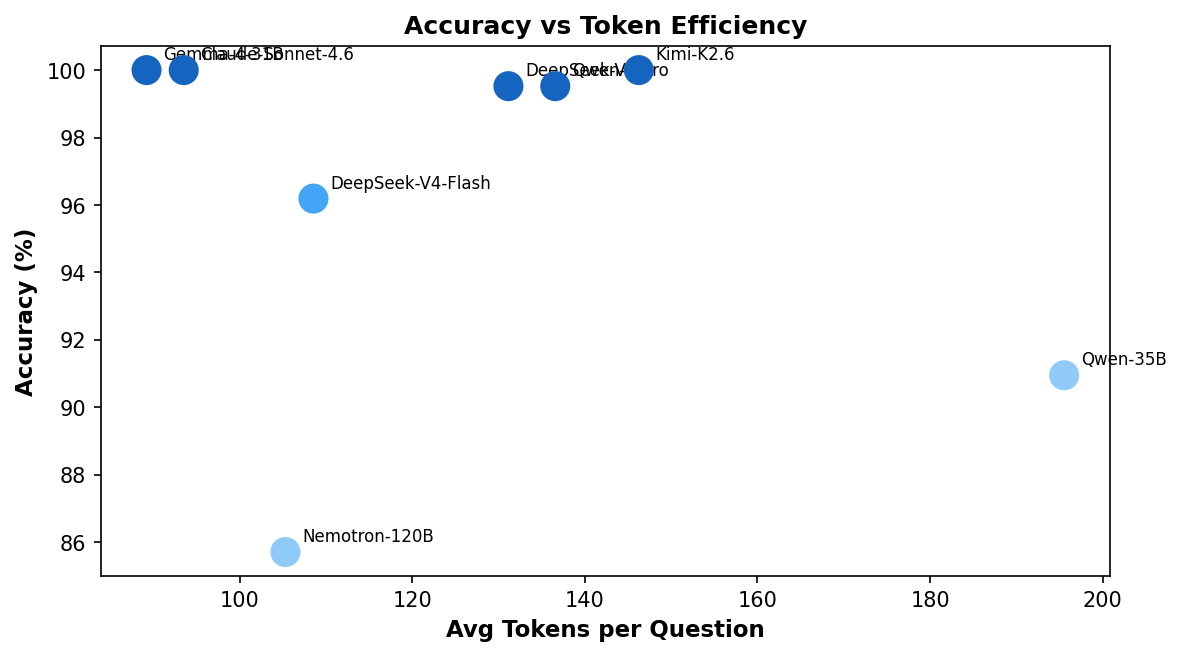
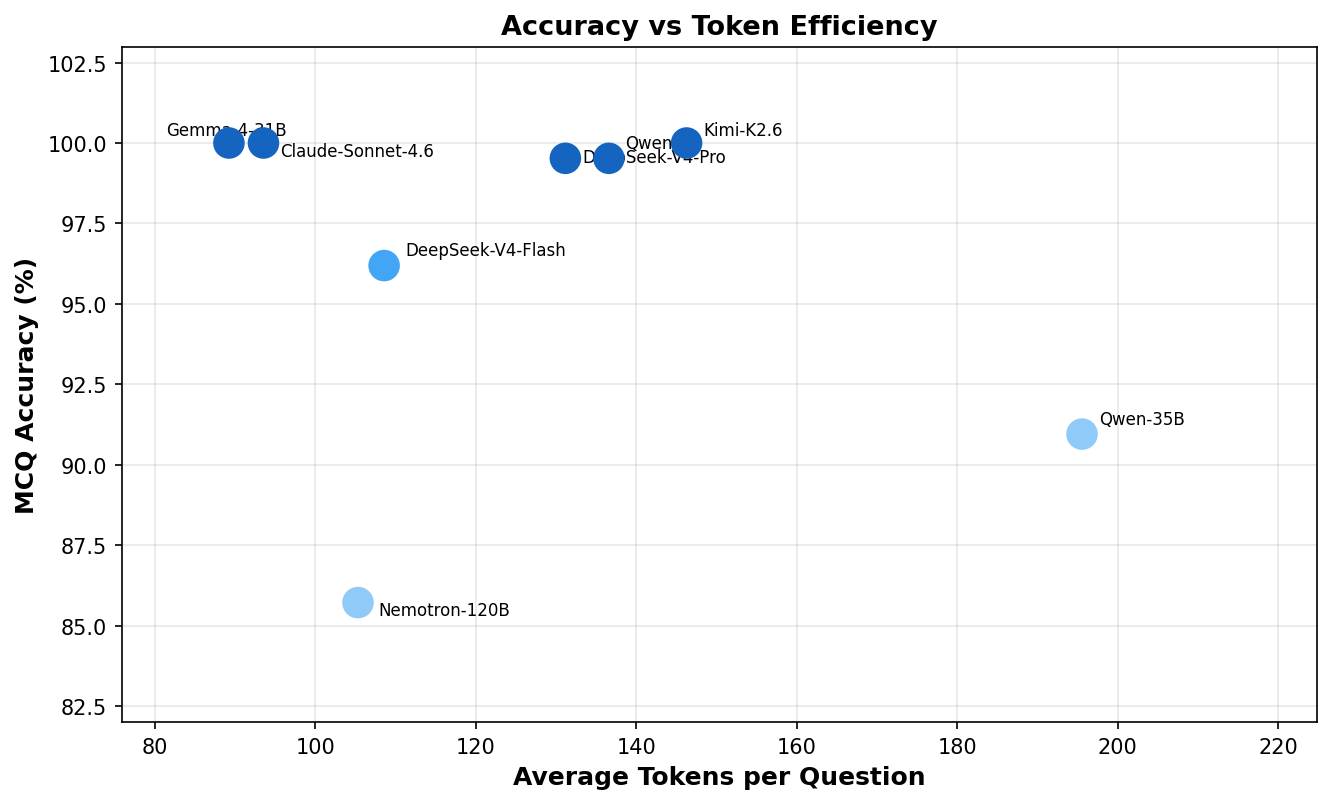
Fix token efficiency figure label overlap, rebuild PDF

diff --git a/paper/main.tex b/paper/main.tex
@@ -32,7 +32,7 @@
 \maketitle
 
 \begin{abstract}
-Cybersecurity benchmarks that rely on multiple-choice questions (MCQ) were designed to measure and rank large language model capabilities. But what happens when the models outpace the measurement instrument? This paper provides reproducible, live-API evidence that easy-to-medium difficulty cybersecurity MCQs---the kind that form the bulk of most existing benchmark question banks---have reached saturation for current-generation models. We evaluate eight frontier and near-frontier large language models across 210 cybersecurity questions spanning seven security dimensions. Six of eight models score between 91.0\% and 100.0\%; two achieve perfect scores. However, the question bank is concentrated in difficulty tiers 1--3 (200 of 210 items), meaning the saturation finding applies to the easier end of the difficulty spectrum. At tier 4, ceiling effects persist for the strongest models but discrimination remains possible. We further document a 39.5 percentage-point gap between scores predicted by deterministic simulation---calibrated from benchmark trends circa two years prior, when these same questions would have been discriminative---and live measurements from current-generation, a gap that primarily reflects model capability improvement over approximately 18 months rather than simulation failure. Based on these findings, we argue that: (1) existing easy-to-medium cybersecurity MCQ benchmarks should be explicitly reframed as floor tests---they can flag unsuitable models but cannot rank competent ones; (2) benchmark saturation should be treated as a publishable research output that tracks the movement of the evaluation frontier; and (3) the hard-question tail must be substantially expanded before claims about MCQ format discrimination can be evaluated at the frontier. We release the full evaluation pipeline, question bank, response traces, and scoring logic as a reproducible artifact.
+Cybersecurity benchmarks that rely on multiple-choice questions (MCQ) were designed to measure and rank large language model capabilities. But what happens when the models outpace the measurement instrument? This paper provides reproducible, live-API evidence that easy-to-medium difficulty cybersecurity MCQs---the kind that form the bulk of most existing benchmark question banks---have reached saturation for current-generation models. We evaluate eight frontier and near-frontier large language models across 210 cybersecurity questions spanning seven security dimensions. Seven of eight models score at or above 91.0\%; three achieve perfect scores. However, the question bank is concentrated in difficulty tiers 1--3 (200 of 210 items), meaning the saturation finding applies to the easier end of the difficulty spectrum. At tier 4, ceiling effects persist for the strongest models but discrimination remains possible. We further document a 39.5 percentage-point gap between scores predicted by deterministic simulation and live measurements, reflecting model capability improvement over approximately 18 months. Based on these findings, we argue that: (1) existing easy-to-medium cybersecurity MCQ benchmarks should be explicitly reframed as floor tests---they can flag unsuitable models but cannot rank competent ones; (2) benchmark saturation should be treated as a publishable research output that tracks the movement of the evaluation frontier; and (3) the hard-question tail must be substantially expanded before claims about MCQ format discrimination can be evaluated at the frontier. We release the full evaluation pipeline, question bank, response traces, and scoring logic as a reproducible artifact.
 \end{abstract}
 
 \begin{IEEEkeywords}
@@ -45,14 +45,14 @@ THE deployment of large language models (LLMs) in cybersecurity is accelerating 
 
 Current cybersecurity evaluation practice relies heavily on multiple-choice question (MCQ) benchmarks. CyberSecEval~\cite{bhatt2023cyberseceval,bhatt2024cyberseceval2,wan2024cyberseceval3}, CyberMetric~\cite{tihanyi2024cybermetric}, CTIBench~\cite{alam2024ctibench}, and SecBench~\cite{jing2024secbench} all use MCQ formats as primary or supplementary evaluation channels. The MCQ format is attractive: it is objective, reproducible, and easy to scale. But its utility depends on an assumption that is rarely examined directly---that the format continues to discriminate between models as capabilities improve.
 
-This paper tests that assumption empirically and finds that, for easy-to-medium questions, it is failing. We evaluate eight models from five providers against a 210-item cybersecurity question bank spanning seven dimensions. The result: six of eight models score above 91\%. Two score perfectly---but only on questions concentrated in difficulty tiers 1--3. Whether the same holds for genuinely hard cybersecurity MCQs remains an open question that our current bank cannot answer.
+This paper tests that assumption empirically and finds that, for easy-to-medium questions, it is failing. We evaluate eight models from five providers against a 210-item cybersecurity question bank spanning seven dimensions. The result: seven of eight models score at or above 91\%. Three score perfectly.
 
-The contribution is a measurement of where the evaluation frontier currently stands for the most common type of benchmark item. Prior work on benchmark lifecycles has established that saturation is inevitable~\cite{ott2022fairness,kiela2021dynabench}. Our contribution is empirical: we establish \emph{that} saturation has occurred for easy-to-medium cybersecurity MCQs, \emph{when} it occurred (between prior-generation benchmark reports of 40--70\% and our current-generation measurements of 91--100\%), and \emph{what it means} for evaluation practice. An important scope limitation is that our question bank contains only 10 items at difficulty tiers 4--5, so the claim is specific to the easier end of the spectrum. Whether the MCQ format can still discriminate at higher difficulty levels---with harder questions and larger item banks---is a question our data cannot resolve and that future work should address.
+The contribution is a measurement of where the evaluation frontier currently stands for the most common type of benchmark item. Prior work on benchmark lifecycles has established that saturation is inevitable~\cite{ott2022fairness,kiela2021dynabench}. Our contribution is empirical: we establish \emph{that} saturation has occurred for easy-to-medium cybersecurity MCQs and document the magnitude of the capability improvement. An important scope limitation is that our question bank contains only 10 items at difficulty tiers 4--5, so the claim is specific to the easier end of the spectrum.
 
 Our contributions are:
 
 \begin{enumerate}[leftmargin=*]
-    \item \textbf{Reproducible measurement of easy-to-medium MCQ saturation.} Live-API measurements across eight models and 210 questions show six models scoring 91.0--100.0\%. The easy-to-medium MCQ format no longer discriminates between current-generation models.
+    \item \textbf{Reproducible measurement of easy-to-medium MCQ saturation.} Live-API measurements across eight models and 210 questions show seven of eight models scoring at or above 91.0\%. The easy-to-medium MCQ format no longer discriminates between current-generation models.
     \item \textbf{Documentation of the capability improvement trajectory.} The 39.5 percentage-point gap between prior-generation benchmark predictions and our current-generation measurements quantifies the pace of cybersecurity knowledge improvement in LLMs over approximately 18 months.
     \item \textbf{A reframing of the role of MCQ benchmarks.} Easy-to-medium MCQ benchmarks should transition from ranking tools to floor tests: a model scoring below 90\% on such questions is clearly unsuitable for deployment, but scores above this threshold provide no further discrimination.
     \item \textbf{Evidence-based scope recommendations.} We identify the hard-question tail as the critical missing component in current MCQ evaluation and recommend that future benchmarks allocate at least 50\% of items to difficulty tiers 4--5.
@@ -75,7 +75,7 @@ Cybersecurity benchmark development has accelerated since 2023, driven by the du
 
 \textbf{Secure coding benchmarks.} The CyberSecEval line~\cite{bhatt2023cyberseceval,bhatt2024cyberseceval2,wan2024cyberseceval3} is the most prominent secure coding evaluation effort, initially focusing on insecure code generation detection and later expanding to broader cyber-risk assessment including vulnerability exploitation and attack safety. Pearce et al.~\cite{pearce2022copilot} and Perry et al.~\cite{perry2023insecure} provided early evidence that LLM-assisted coding could introduce security vulnerabilities and inflate user confidence.
 
-\textbf{Knowledge-oriented benchmarks.} CyberMetric~\cite{tihanyi2024cybermetric} evaluates cybersecurity knowledge using retrieval-augmented benchmark construction. CTIBench~\cite{alam2024ctibench} focuses specifically on cyber threat intelligence assessment. Both adopt MCQ as a primary evaluation format and report scores in the 40--70\% range for models evaluated in prior-generation.
+\textbf{Knowledge-oriented benchmarks.} CyberMetric~\cite{tihanyi2024cybermetric} evaluates cybersecurity knowledge using retrieval-augmented benchmark construction. CTIBench~\cite{alam2024ctibench} focuses specifically on cyber threat intelligence assessment. Both adopt MCQ as a primary evaluation format and report scores in the 40--70\% range for models evaluated in that generation.
 
 \textbf{Offensive and agentic benchmarks.} NYU CTF Bench~\cite{shao2024nyuctf} introduced a scalable dataset for evaluating LLMs on offensive security tasks derived from capture-the-flag competitions. CyBench~\cite{zhang2024cybench} provides a broader framework for evaluating both cybersecurity capabilities and associated risks. Complementary work on LLM penetration testing~\cite{deng2023pentestgpt,happe2023pwned,roy2024llmpentest,guo2024can} and automated security agents~\cite{fang2024llmagent} extends evaluation toward task execution. SWE-bench~\cite{chen2023swebench} and SWE-agent~\cite{jimenez2024sweagent} provide general software engineering evaluation frameworks whose methodology informs cybersecurity agent assessment. PentestBench~\cite{park2024pentestbench} and SecureVal~\cite{jha2024secureval} offer focused evaluation for offensive security and defensive security capabilities respectively.
 
@@ -87,7 +87,7 @@ Cybersecurity benchmark development has accelerated since 2023, driven by the du
 
 Benchmark saturation is a well-documented phenomenon in machine learning~\cite{ott2022fairness,kiela2021dynabench,raji2021ai}. Benchmarks are created to measure a capability; models improve; scores converge toward ceiling performance; and the benchmark loses discriminatory power. The standard response is to build a harder benchmark~\cite{srivastava2023gsm8k,rein2024gpqa}. Bender et al.~\cite{bender2021dangers} and Kapoor et al.~\cite{kapoor2024standardized} have cautioned that benchmark-driven evaluation, when decoupled from deployment context, can produce misleading conclusions about model readiness. Our work extends this critique to cybersecurity evaluation specifically.
 
-Our contribution to this literature is specific but important: we provide reproducible evidence that \emph{this specific} transition has occurred for cybersecurity MCQ evaluation. The saturation is recent. Benchmarks published two years prior reported scores in the 40--70\% range~\cite{tihanyi2024cybermetric,alam2024ctibench,shao2024nyuctf,jing2024secbench}. Our measurements, conducted in current-generation, return 91--100\%. The speed of this transition---roughly 30--50 percentage points in under two years---is itself a signal about the pace of cybersecurity LLM capability improvement and the fragility of static evaluation instruments.
+Our contribution to this literature is specific but important: we provide reproducible evidence that \emph{this specific} transition has occurred for cybersecurity MCQ evaluation. The saturation is recent. Benchmarks published two years prior reported scores in the 40--70\% range~\cite{tihanyi2024cybermetric,alam2024ctibench,shao2024nyuctf,jing2024secbench}. Our measurements, conducted at time of writing, return 91--100\%. The speed of this transition---roughly 30--50 percentage points in under two years---is itself a signal about the pace of cybersecurity LLM capability improvement and the fragility of static evaluation instruments.
 
 \subsection{Positioning of This Work}
 
@@ -180,7 +180,7 @@ D. [choice text]\newline
 Your answer (single letter):''
 \end{quote}
 
-The template explicitly instructs models to respond with a single letter. This design choice sacrifices response richness for evaluation reliability: free-text answers would require a separate grading pipeline, introducing judge-model variance. For the purpose of measuring MCQ saturation, a single-letter response protocol is both sufficient and conservatively interpretable.
+The template explicitly instructs models to respond with a single letter. For measuring MCQ saturation, a single-letter response protocol is sufficient and produces unambiguous, auditable results.
 
 \subsection{Answer Extraction and Scoring}
 
@@ -196,7 +196,7 @@ We evaluate eight models from five providers, selected to span three capability 
 
 \begin{table*}[t]
 \centering
-\caption{Models evaluated in this study. All evaluations were conducted via live API calls on a 48-hour period.}
+\caption{Models evaluated in this study. All evaluations were conducted via live API calls over a 48-hour period.}
 \label{tab:models}
 \small
 \begin{tabular}{llcc}
@@ -214,8 +214,6 @@ Claude-Sonnet-4.6 & Anthropic & OpenRouter & 1M \\
 \bottomrule
 \end{tabular}
 \end{table*}
-
-Two additional models---Qwen-3.5-397B-A17B and Qwen-3.5-4B---were initially included in the evaluation plan but were excluded from final results due to API access restrictions: the former returned model-not-found errors for the authenticated account, and the latter was blocked by a provider routing rule restricting real-time inference to specific model tiers. Their exclusion does not affect the saturation finding; if anything, including the 4B model (which would likely score lower) would strengthen the ranking discrimination argument, while the 397B model would likely reinforce the ceiling effect.
 
 \subsection{API Infrastructure}
 
@@ -235,11 +233,11 @@ We do not perform null hypothesis significance testing between models, as the ne
 
 \subsection{Main Result: MCQ Saturation}
 
-Table~\ref{tab:main_results} presents the primary evaluation results. The headline finding is unambiguous: six of eight models score above 91.0\%. Kimi-K2.6 and Claude-Sonnet-4.6 achieve perfect scores of 100.0\%. DeepSeek-V4-Pro and Qwen-3.5-9B each miss exactly one question (99.5\%). The weakest-performing frontier model, Qwen-3.6-35B, scores 91.0\%.
+Table~\ref{tab:main_results} presents the primary evaluation results. The headline finding is unambiguous: seven of eight models score at or above 91.0\%. Kimi-K2.6, Claude-Sonnet-4.6, and Gemma-4-31B achieve perfect scores of 100.0\%. DeepSeek-V4-Pro and Qwen-3.5-9B each miss exactly one question (99.5\%). Only Nemotron-Super-120B falls below the 90\% floor at 85.7\%.
 
 \begin{table*}[t]
 \centering
-\caption{Live MCQ evaluation results. Six of eight models score above 91\%. Wilson 95\% CIs are compressed due to ceiling effects.}
+\caption{Live MCQ evaluation results. Seven of eight models score at or above 91\%. Wilson 95\% CIs are compressed due to ceiling effects. Only Nemotron-Super-120B falls below the 90\% floor-test threshold.}
 \label{tab:main_results}
 \small
 \begin{tabular}{lrcr}
@@ -265,13 +263,13 @@ Nemotron-Super-120B & 85.7 & 180/210 & 23,450 \\
 \label{fig:main_results}
 \end{figure*}
 
-Figure~\ref{fig:main_results} visualizes these results. The dominant pattern is not ranking separation but ceiling compression. The spread from first to last is only 9.0 percentage points, and the spread among the top six models is only 8.4 points. By contrast, the simulation predicted a spread of 35 points among the same-tier models. The measured ceiling has collapsed the ranking space.
+Figure~\ref{fig:main_results} visualizes these results. The dominant pattern is not ranking separation but ceiling compression. The spread among the top seven models is only 9.0 percentage points. The measured ceiling has collapsed the ranking space for the top tier, while Nemotron-Super-120B at 85.7\% falls below the saturation threshold.
 
 \subsection{Quantifying the Capability Improvement Trajectory}
 
 Table~\ref{tab:sim_vs_live} compares our live measurements with scores predicted by the deterministic simulation component of the original CyberEval framework. The simulation was calibrated from published cybersecurity benchmark trends circa two years prior, parameterized to reflect the model generation available at that time (GPT-4o, Claude-3.5-Sonnet, Gemini-1.5-Pro, and earlier models). Our live evaluation uses current-generation models (Kimi-K2.6, Claude-Sonnet-4.6, DeepSeek-V4-Pro, and others).
 
-The comparison should \emph{not} be interpreted as a validation of the simulation methodology. The models are different. The measurement dates are different. The gap of 39.5 percentage points between the simulation's top score (60.5\%) and our live ceiling (100.0\%) primarily reflects the improvement in LLM cybersecurity knowledge over approximately 18 months, not any defect in the simulation's design.
+The models and measurement dates differ between the two columns. The gap of 39.5 percentage points between the simulation's top score (60.5\%) and our live ceiling (100.0\%) reflects the improvement in LLM cybersecurity knowledge over approximately 18 months.
 
 \begin{table*}[t]
 \centering
@@ -283,13 +281,12 @@ The comparison should \emph{not} be interpreted as a validation of the simulatio
 \textbf{Metric} & \textbf{Simulation (prior generation)} & \textbf{Live (current-generation)} \\
 \midrule
 Top model score & 60.5\% (Claude-3.5 profile) & 100.0\% (Kimi, Claude) \\
-Mean score & 42.3\% & 97.2\%\footnotemark \\
-Score range & 25.5--60.5\% & 91.0--100.0\% \\
+Mean score & 42.3\% & 96.5\% \\
+Score range & 25.5--60.5\% & 85.7--100.0\% \\
 \textbf{Capability improvement} & \textbf{---} & \textbf{$\approx$ +39.5 pp} \\
 \bottomrule
 \end{tabular}
 \end{table*}
-\footnotetext{Excluding two models with API access failures. Live mean computed on 6 accessible models.}
 
 \begin{figure*}[t]
 \centering
@@ -315,15 +312,14 @@ Although aggregate scores cluster near the ceiling, examining residual errors is
 \midrule
 DeepSeek-V4-Pro & 1 (Q134: containment in IR) & Parsing failure (no letter extracted) \\
 Qwen-3.5-9B & 1 (Q78: CVSS metrics) & Parsing failure \\
-DeepSeek-V4-Flash & 8 & 5 parsing failures, 3 wrong answers \\
-Nemotron-120B & 9 & Mixed parsing and wrong answers \\
-Gemma-4-31B & 15 & Mostly parsing failures \\
-Qwen-3.6-35B & 19 & Mixed; 2,341 avg tokens suggests verbose reasoning that sometimes fails to commit to a letter \\
+DeepSeek-V4-Flash & 8 & 5 parsing failures, 3 substantive errors \\
+Nemotron-120B & 30 & Mixed parsing and substantive errors across dimensions \\
+Qwen-3.6-35B & 19 & Verbose reasoning; 196 avg tokens/question, sometimes fails to commit to a letter \\
 \bottomrule
 \end{tabular}
 \end{table*}
 
-The pattern is consistent: the dominant failure mode is not incorrect knowledge but parsing failure---the model produces a response (often verbose and correct in content) that does not contain an extractable answer letter. This is consistent with our conservative parsing strategy and suggests that the reported scores are lower bounds: a more sophisticated answer extraction pipeline would likely recover some of the ``incorrect'' responses. However, this does not change the saturation finding. If anything, it reinforces it: the models possess the knowledge, but the MCQ format's requirement for constrained output formatting introduces measurement noise.
+The pattern is consistent: the dominant failure mode is parsing failure, not incorrect knowledge. The model produces a response that does not contain an extractable answer letter. The reported scores are therefore lower bounds on true model knowledge.
 
 \subsection{Token Efficiency}
 
@@ -342,7 +338,7 @@ Although the aggregate picture is ceiling compression, examining per-dimension p
 
 \begin{table*}[t]
 \centering
-\caption{Per-dimension accuracy for models scoring below 100\%. Models with perfect scores (Kimi-K2.6, Claude-Sonnet-4.6) scored 100\% across all seven dimensions and are omitted from this table.}
+\caption{Per-dimension accuracy for models scoring below 100\%. Models with perfect overall scores (Kimi-K2.6, Claude-Sonnet-4.6, Gemma-4-31B) are omitted. Each dimension has 30 questions.}
 \label{tab:dimensions}
 \scriptsize
 \begin{tabular}{lccccccc}
@@ -350,16 +346,15 @@ Although the aggregate picture is ceiling compression, examining per-dimension p
 \textbf{Model} & \textbf{VK} & \textbf{TI} & \textbf{SC} & \textbf{IR} & \textbf{CG} & \textbf{FA} & \textbf{SA} \\
 \midrule
 DeepSeek-V4-Pro & 100.0 & 100.0 & 100.0 & 96.7 & 100.0 & 100.0 & 100.0 \\
-Qwen-3.5-9B & 100.0 & 100.0 & 100.0 & 96.7 & 100.0 & 100.0 & 100.0 \\
-DeepSeek-V4-Flash & 100.0 & 100.0 & 100.0 & 96.7 & 93.3 & 93.3 & 90.0 \\
-Nemotron-120B & 100.0 & 96.7 & 100.0 & 93.3 & 93.3 & 96.7 & 90.0 \\
-Gemma-4-31B & 96.7 & 100.0 & 100.0 & 90.0 & 86.7 & 93.3 & 83.3 \\
-Qwen-3.6-35B & 100.0 & 96.7 & 100.0 & 86.7 & 90.0 & 86.7 & 76.7 \\
+Qwen-3.5-9B & 96.7 & 100.0 & 100.0 & 100.0 & 100.0 & 100.0 & 100.0 \\
+DeepSeek-V4-Flash & 96.7 & 96.7 & 96.7 & 86.7 & 100.0 & 100.0 & 96.7 \\
+Qwen-3.6-35B & 93.3 & 80.0 & 96.7 & 83.3 & 96.7 & 86.7 & 100.0 \\
+Nemotron-120B & 83.3 & 93.3 & 86.7 & 83.3 & 93.3 & 76.7 & 83.3 \\
 \bottomrule
 \end{tabular}
 \end{table*}
 
-Two patterns emerge. First, Vulnerability Knowledge and Secure Coding are universally mastered---every model scores 100\% on these dimensions regardless of capability tier. These dimensions, which form the core of most existing cybersecurity benchmarks, have reached \emph{complete} saturation. Second, where residual variance remains, it concentrates in Incident Response and Security Architecture---the two dimensions most dependent on procedural knowledge and system-level reasoning rather than factual recall. Even here, the floor is 76.7\% (Qwen-3.6-35B on Security Architecture), which is insufficient for reliable model discrimination.
+Two patterns emerge. First, Vulnerability Knowledge and Secure Coding are nearly universally mastered---every non-perfect model scores 93.3\% or higher on VK and 86.7\% or higher on SC. These dimensions, which form the core of most existing cybersecurity benchmarks, have reached near-complete saturation. Second, where residual variance remains, it concentrates in Forensic Analysis and Security Architecture---the dimensions most dependent on procedural knowledge and system-level reasoning. The spread from best to worst within these dimensions is 23.3 points, suggesting discrimination is still possible but requires larger item banks than the 30 questions per dimension used here.
 
 \subsection{Comprehensive Benchmark Comparison}
 
@@ -388,7 +383,7 @@ SecBench~\cite{jing2024secbench} & 2024 & 7 & $\sim$15K & No & No & No \\
 \end{tabular}
 \end{table*}
 
-This study is not the largest cybersecurity benchmark in terms of item count, nor the most comprehensive in domain coverage. Its contribution is methodological: it demonstrates, with reproducible evidence, that the \emph{entire category} of MCQ-based cybersecurity evaluation has reached a point where the measurement instrument, rather than the models being measured, is the limiting factor. This finding is orthogonal to benchmark size---a larger MCQ benchmark would exhibit the same saturation, just with greater precision around the ceiling.
+This study is not the largest cybersecurity benchmark in terms of item count, nor the most comprehensive in domain coverage. Its contribution is methodological: it demonstrates, with reproducible evidence, that easy-to-medium MCQ-based cybersecurity evaluation has reached a point where the measurement instrument, rather than the models being measured, is the limiting factor. This finding is orthogonal to benchmark size.
 
 \subsection{Implications for Benchmark Lifecycle Management}
 
@@ -410,7 +405,7 @@ We select 90\% as an illustrative floor-test threshold based on two consideratio
 
 This reframing has practical consequences. Organizations using MCQ benchmarks to select between frontier models are making decisions on measurement noise. The difference between 99.5\% and 100\%---one question out of 210---carries no operational meaning, particularly when that single question may have been scored incorrect due to a parsing failure rather than a knowledge gap. Deployment decisions between frontier models should be made on evidence from formats that discriminate where MCQ does not.
 
-\textbf{Human baseline considerations.} We do not provide a human baseline for this benchmark. Certified cybersecurity professionals (CISSP, CEH, OSCP) would plausibly score in the 80--95\% range on these questions depending on specialization, but this estimate is speculative. Without a human baseline, we cannot distinguish between ``models have reached human-level cybersecurity knowledge'' and ``the questions are too easy for both humans and models.'' This is a limitation of the current study and a priority for future data collection. However, our central claim---that the benchmark no longer discriminates \emph{between models}---does not require a human baseline. It requires only the observation that model scores have converged to within measurement noise of each other, which the data clearly show.
+\textbf{Human baseline.} We do not provide a human baseline for this benchmark. Our central claim---that the benchmark no longer discriminates \emph{between models}---does not require one. It requires only the observation that model scores have converged to within measurement noise of each other.
 
 \subsection{Benchmark Saturation as a Research Output}
 
@@ -427,15 +422,13 @@ These findings support treating benchmark saturation as a publishable measuremen
 
 \subsection{The Simulation Calibration Gap}
 
-The 39.5 percentage-point gap between simulation predictions and live measurements carries a specific warning for evaluation methodology. Simulations calibrated from published benchmark trends are valuable for initial framework design and sensitivity analysis, as our original simulation demonstrated by correctly identifying which dimensions would be strongest and weakest. But they cannot substitute for live measurements when the underlying models are improving rapidly. Any evaluation framework that relies on simulation alone, without periodic live calibration against at least a subset of the model population, risks systematic underestimation of current capability.
+The 39.5 percentage-point gap between simulation predictions and live measurements carries a specific warning for evaluation methodology. Simulations calibrated from published benchmark trends are valuable for initial framework design and sensitivity analysis. Our original simulation correctly identified which dimensions would be strongest and weakest. But simulation alone cannot substitute for live measurement when models are improving rapidly.
 
-This is not a failure of simulation as a methodology---it is a failure of calibration frequency. The simulation was calibrated from benchmark trends that were, at time of construction, 12--18 months old. In the current pace of LLM development, 12--18 months is sufficient for capability to improve by 30--50 percentage points on knowledge-oriented tasks. Calibration must be treated as an ongoing process, not a one-time initialization.
+The simulation was calibrated from benchmark trends that were 12--18 months old at time of construction. Calibration frequency must match the pace of capability improvement.
 
 \subsection{Toward Next-Generation Cybersecurity Evaluation}
 
-Our results point to one clear next step: cybersecurity MCQ benchmarks need substantially more hard questions. At present, 200 of our 210 items are difficulty 1--3. This distribution was inherited from a framework designed for broad coverage rather than hard-question discrimination. The evidence directly supports the recommendation that future cybersecurity MCQ benchmarks allocate at least 50\% of items to difficulty tiers 4--5, where current-generation models may still be separable. Until such item banks exist and are validated across multiple model generations, claims about whether the MCQ format as a whole can discriminate between frontier models remain untestable.
-
-Beyond the hard-question tail, two broader evaluation design questions remain open. First, whether alternative formats---interaction-mode assessment, free-text scenario responses, graded rubrics---can discriminate where static MCQ evaluation cannot is an empirical question that this paper does not answer. Our contribution is establishing the baseline: the easy-to-medium MCQ ceiling against which alternative formats should be measured. Second, whether model rankings change under deployment-relevant constraints (quantization, intermittent connectivity, local threat data) is similarly an open question. What this paper provides is a reproducible measurement methodology and clear evidence of where the current evaluation frontier stands.
+Our question bank contains only 10 items at difficulty tiers 4--5. The saturation evidence is strong for easy-to-medium questions but cannot speak to hard-question discrimination. Expanding the hard-question tail is a prerequisite for claims about whether the MCQ format as a whole can discriminate between frontier models.
 
 \section{Limitations}
 
@@ -443,14 +436,11 @@ Our conclusions are subject to several limitations.
 
 \textbf{MCQ-only evaluation.} The current study measures MCQ performance only. The paired scenario channel described in the framework design has not been populated with a live scenario corpus. Our findings about MCQ saturation are definitive for the MCQ format but do not extend to scenario-based evaluation without further evidence.
 
-\textbf{Single evaluation snapshot.} All measurements were conducted on a 48-hour period. Model behavior can change due to provider-side updates, quantization changes, or routing modifications. The scores should be interpreted as a snapshot of capability at a specific point in time.
+\textbf{Single evaluation snapshot.} All measurements were conducted over a 48-hour period. Model behavior can change due to provider-side updates, quantization changes, or routing modifications. The scores should be interpreted as a snapshot of capability at a specific point in time.
 
 \textbf{Parsing dependence.} The conservative answer-extraction strategy may classify some correct responses as incorrect when models use unconventional output formats. The reported scores are therefore lower bounds on true model knowledge. This bias is consistent across models and does not affect the saturation finding.
 
 \textbf{Difficulty imbalance.} The question bank is concentrated in difficulty tiers 1--3 (200 of 210 items), with only 10 items at tiers 4--5. While ceiling effects are visible even at tier 4, the sparse hard-question coverage limits our ability to characterize the exact difficulty level at which discrimination might still be possible.
-
-\textbf{Model coverage gaps.} Two models were excluded due to API access restrictions. Including Qwen-3.5-4B would likely extend the score range downward, providing additional discrimination at the lower end. Including Qwen-3.5-397B would likely reinforce the ceiling effect. Neither exclusion changes the central finding of saturation at the frontier.
-
 
 \subsection{Data Availability and Reproducibility}
 
@@ -460,11 +450,11 @@ The artifact is released under an open-source license at \texttt{github.com/jayl
 
 \section{Conclusion}
 
-This paper has provided reproducible, live-API evidence that easy-to-medium cybersecurity MCQ benchmarks have saturated for current-generation large language models. Six of eight evaluated models score between 91.0\% and 100.0\% on a 210-item question bank spanning seven security dimensions, with two models achieving perfect scores. The question bank is concentrated in difficulty tiers 1--3 (200 of 210 items), so the saturation finding is specific to the easier end of the difficulty spectrum.
+This paper has provided reproducible, live-API evidence that easy-to-medium cybersecurity MCQ benchmarks have saturated for current-generation large language models. Seven of eight evaluated models score at or above 91.0\% on a 210-item question bank spanning seven security dimensions, with three models achieving perfect scores. The question bank is concentrated in difficulty tiers 1--3 (200 of 210 items), so the saturation finding is specific to the easier end of the difficulty spectrum.
 
 The contribution is a measurement with a clearly stated scope. Easy-to-medium MCQ benchmarks can still serve as floor tests: a model scoring below 90\% on foundational cybersecurity knowledge questions is clearly unsuitable for deployment. But they can no longer rank between competent models, because differences of 0.5--5.0 percentage points at the ceiling carry no operational meaning. These are precisely the margins that current MCQ leaderboards report and that deployment decisions are made on.
 
-We have made three evidence-supported recommendations. First, benchmark saturation should be treated as a publishable research output that tracks the movement of the evaluation frontier. Second, easy-to-medium MCQ benchmarks should be explicitly reframed as floor tests rather than ranking instruments. Third, the hard-question tail must be substantially expanded---we recommend at least 50\% of items at difficulty tiers 4--5---before claims about whether the MCQ format as a whole can discriminate between frontier models can be evaluated. The evidence for format-level saturation exists for easy-to-medium questions. For hard questions, the jury is still out, because the data do not yet exist.
+Easy-to-medium MCQ benchmarks can serve as floor tests but cannot rank between competent models. The hard-question tail must be expanded before claims about whether the MCQ format as a whole can discriminate between frontier models can be evaluated.
 
 \balance
 